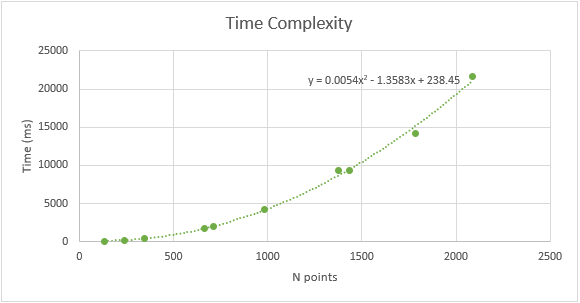
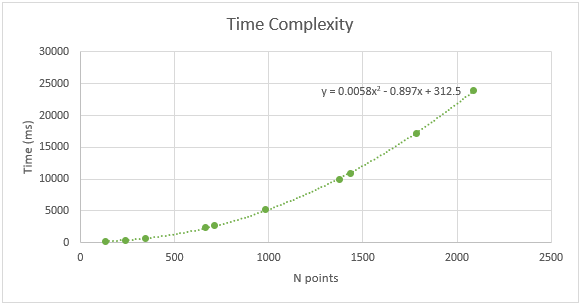
Update TSP Solver
The class DoubleLinkedList was improved to offer a better performance by adding an inverted index for the nodes. Now, the results are better.

diff --git a/code/TSP_Solver/src/tsp/util/DoubleLinkedList.java b/code/TSP_Solver/src/tsp/util/DoubleLinkedList.java
@@ -8,18 +8,20 @@
 
 package tsp.util;
 
+import java.util.Hashtable;
+
 // Double Linked List class
 public class DoubleLinkedList
 {
     // Class variables
     private Node lastNode;
-    private int nNodes;
+    private Hashtable<Integer, Node> nodes;
 	
     // Class constructor
     public DoubleLinkedList()
     {
     	lastNode = null;
-        nNodes = 0;
+    	nodes = new Hashtable<Integer, Node>();
     }
     
     // Returns if the list is empty or not
@@ -31,7 +33,7 @@ public class DoubleLinkedList
     // Returns the number of nodes in the list
     public int size()
     {
-        return nNodes;
+        return nodes.size();
     }
     
     // Returns the last selected node
@@ -43,12 +45,8 @@ public class DoubleLinkedList
     // Search for a node from its key name
     public Node get(int key)
     {
-		Node n = getLast();
-		while (n.next != lastNode && n.keyName != key)
-			n = n.next;
-		
-		if (n.keyName == key)
-            return n;
+    	if (nodes.containsKey(key))
+    		return nodes.get(key);
 		
 		return null;
     }
@@ -66,7 +64,7 @@ public class DoubleLinkedList
             p.next = n;
             n.previous = p;
 		}
-        nNodes++;
+        nodes.put(n.keyName, n);
     }
     
     // Insert a node to the left of node p
@@ -82,7 +80,7 @@ public class DoubleLinkedList
             p.previous = n;
             n.next = p;
         }
-        nNodes++;
+        nodes.put(n.keyName, n);
     }
     
     // Delete a node from the list
@@ -91,9 +89,9 @@ public class DoubleLinkedList
         if (node == lastNode)
             lastNode = node.next;
         
+        nodes.remove(node.keyName);
         node.previous.next = node.next;
         node.next.previous = node.previous;
         node = null;
-        nNodes--;
     }
 }

diff --git a/code/TSP_Solver/src/tsp/algorithm/SOMAlgorithm.java b/code/TSP_Solver/src/tsp/algorithm/SOMAlgorithm.java
@@ -199,8 +199,8 @@ public class SOMAlgorithm extends TspAlgorithm
     private void addNodes()
     {   
     	Node winner = null;
-        Node node = graph.getLast();
-        int maxVictories = 0;
+    	Node node = graph.getLast();
+    	int maxVictories = 0;
         
         do
         {

diff --git a/README.md b/README.md
@@ -34,22 +34,22 @@ Next, the results of 10 different TSP files using the SOM algorithm implementati
 
 | TSP File | # Points | Best Tout | Curr Tour | MAPE (%) | Elapsed Time (ms) |
 | -- | -- | -- | -- | -- | -- |
-| XQF131  | 131  |  564.00 | 607.8345  |  7.7721 |    73 |
-| XQG237  | 237  | 1019.00 | 1100.4472 |  7.9929 |   215 |
-| PMA343  | 343  | 1368.00 | 1448.5932 |  5.8913 |   442 |
-| XQL662  | 662  | 2513.00 | 2870.8841 | 14.2413 |  1736 |
-| RBX711  | 711  | 3115.00 | 3461.0800 | 11.1101 |  2044 |
-| PBD984  | 984  | 2797.00 | 3129.5691 | 11.8902 |  4204 |
-| DKA1376 | 1376 | 4666.00 | 5305.0492 | 13.6959 |  9393 |
-| DJA1436 | 1436 | 5257.00 | 5878.6449 | 11.8251 |  9276 |
-| DJC1785 | 1785 | 6115.00 | 6930.8129 | 13.3412 | 14230 |
-| DCB2086 | 2086 | 6600.00 | 7526.3571 | 14.0357 | 21605 |
+| XQF131  | 131  |  564.00 | 608.8120  | 7.9454  |   146 |
+| XQG237  | 237  | 1019.00 | 1092.1591 | 7.1795  |   387 |
+| PMA343  | 343  | 1368.00 | 1451.8500 | 6.1294  |   726 |
+| XQL662  | 662  | 2513.00 | 2862.8253 | 13.9206 |  2411 |
+| RBX711  | 711  | 3115.00 | 3444.4560 | 10.5764 |  2788 |
+| PBD984  | 984  | 2797.00 | 3126.9053 | 11.7950 |  5264 |
+| DKA1376 | 1376 | 4666.00 | 5267.2621 | 12.8860 |  9926 |
+| DJA1436 | 1436 | 5257.00 | 5846.3651 | 11.2111 | 10834 |
+| DJC1785 | 1785 | 6115.00 | 6895.1806 | 12.7585 | 17214 |
+| DCB2086 | 2086 | 6600.00 | 7444.1573 | 12.7903 | 24017 |
 
-With a weighted average MAPE of: 12.6017 %. Below, the solution accuracy in one chart:
+With a weighted average MAPE of 11.9445 %. Below, the solution accuracy in one chart:
 
 ![solution accuracy](https://raw.githubusercontent.com/ansegura7/TSP/master/images/results1.PNG)
 
-The time complexity of this solution is:
+And the time complexity of the solution is:
 
 ![time complexity](https://raw.githubusercontent.com/ansegura7/TSP/master/images/results2.PNG)
 
